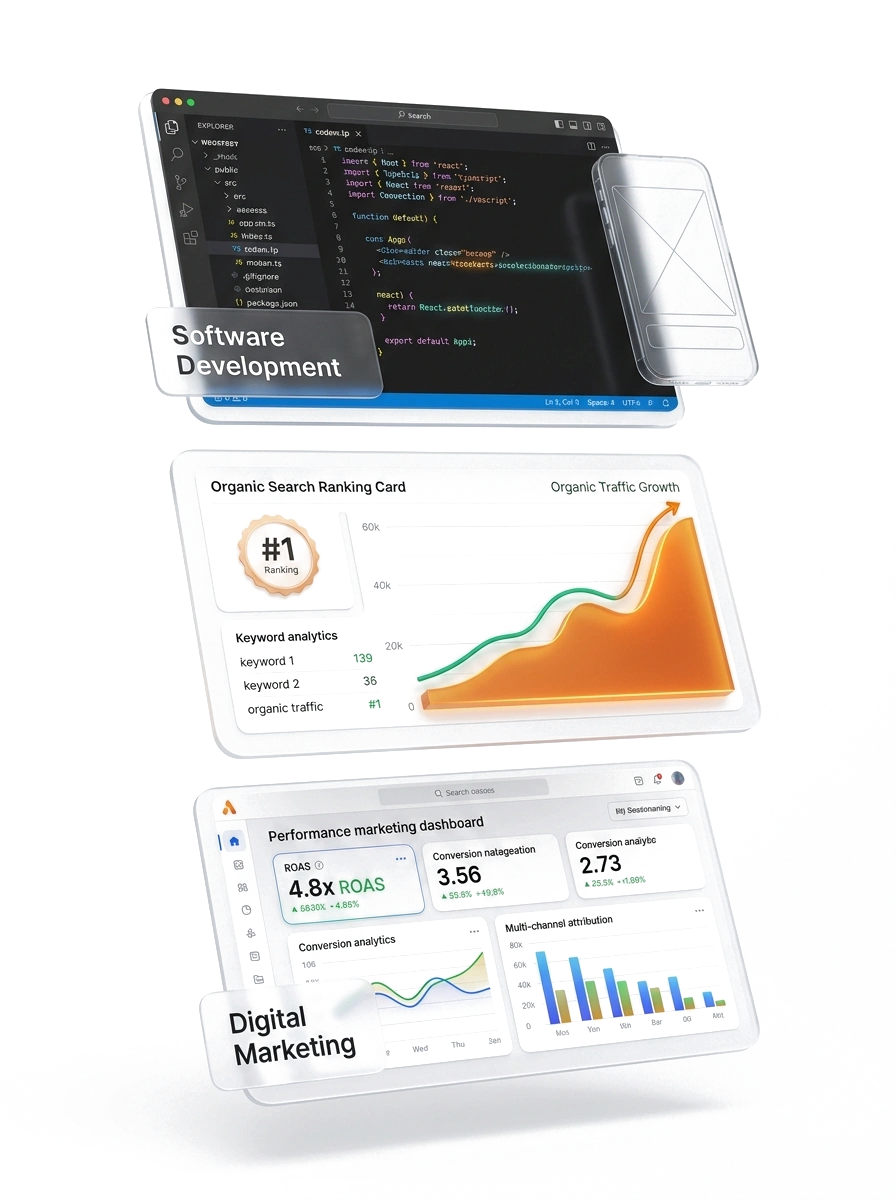
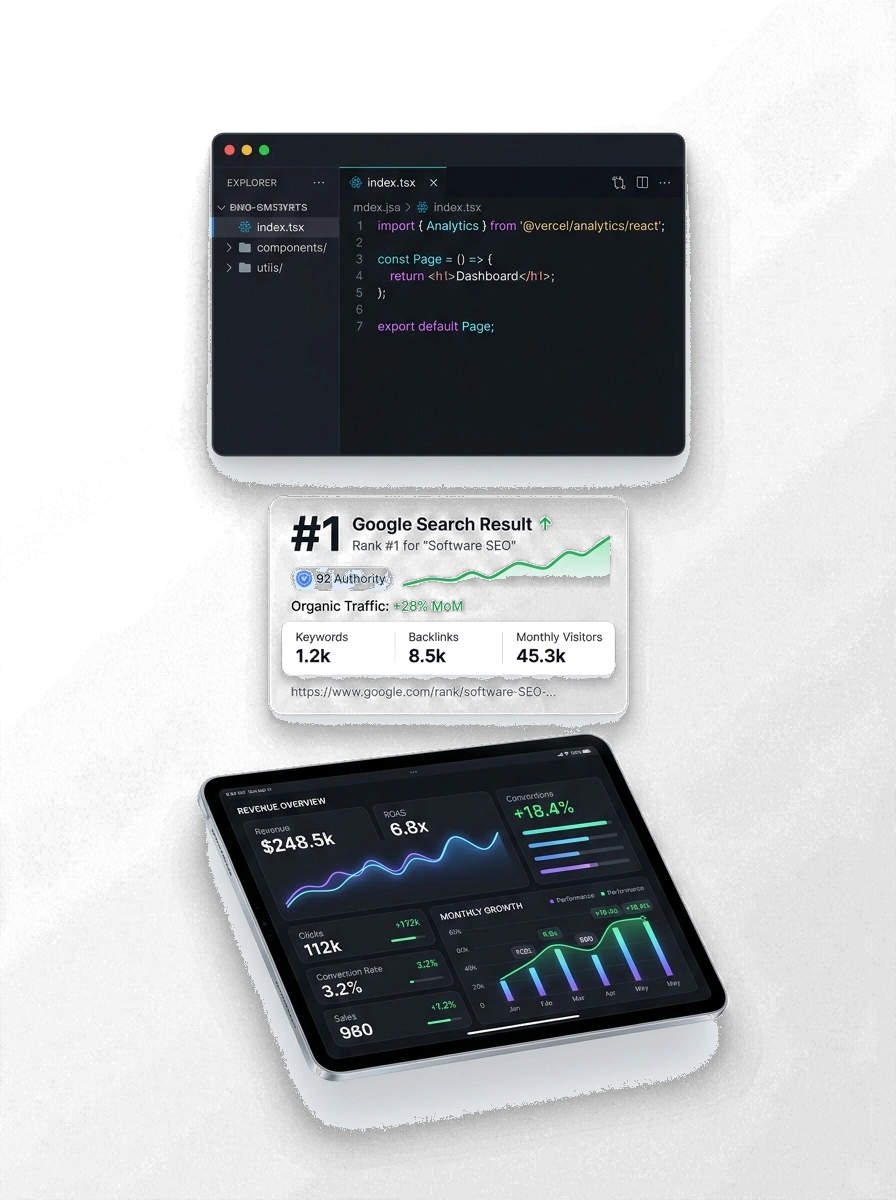
feat(services): redesign capabilities into 5 pillars with sub-service tags and clean floating 3D showcase visual

diff --git a/src/components/portfolite/PortfoliteServicesBento.tsx b/src/components/portfolite/PortfoliteServicesBento.tsx
@@ -4,12 +4,12 @@ import React from 'react';
 import Link from '@/components/Link';
 import {
   Code2,
-  TrendingUp,
-  Share2,
+  Search,
   Target,
   ArrowRight,
-  Monitor,
   Film,
+  Newspaper,
+  CheckCircle2,
 } from 'lucide-react';
 
 interface BentoServiceCard {
@@ -19,7 +19,10 @@ interface BentoServiceCard {
   title: string;
   link: string;
   description: string;
+  tags: string[];
   icon: React.ComponentType<{ className?: string }>;
+  colSpanDesktop: string;
+  colSpanTablet: string;
 }
 
 const SERVICES_DATA: BentoServiceCard[] = [
@@ -28,10 +31,20 @@ const SERVICES_DATA: BentoServiceCard[] = [
     index: '01',
     category: 'Software Engineering',
     title: 'Software Development',
-    link: '/services/crm-software',
+    link: '/services/development',
     description:
-      'We engineer bespoke business software, modular backend architectures, custom CRMs, and automated workflow matrices built for dependable enterprise scale.',
+      'We engineer bespoke enterprise software, modular backend architectures, scalable ERP systems, custom CRMs, and automated workflow matrices built for dependable scale.',
+    tags: [
+      'CRM',
+      'ERP',
+      'Mobile App',
+      'E-Commerce Website',
+      'Corporate Website',
+      'Custom Software',
+    ],
     icon: Code2,
+    colSpanDesktop: 'lg:col-span-6',
+    colSpanTablet: 'md:col-span-1',
   },
   {
     id: 'digital-marketing',
@@ -40,48 +53,84 @@ const SERVICES_DATA: BentoServiceCard[] = [
     title: 'Digital Marketing',
     link: '/services/digital-marketing',
     description:
-      'Full-funnel acquisition campaigns, multi-touch attribution telemetry, and precision conversion optimization engineered to accelerate business revenue.',
+      'Full-funnel acquisition campaigns, multi-touch attribution telemetry, and precision conversion optimization engineered to accelerate verified business revenue.',
+    tags: [
+      'Digital Marketing',
+      'Social Media Marketing',
+      'Content Marketing',
+      'Performance Marketing',
+      'Branding',
+      'Google Ads',
+      'Meta Ads',
+      'PR Management',
+    ],
     icon: Target,
+    colSpanDesktop: 'lg:col-span-6',
+    colSpanTablet: 'md:col-span-1',
   },
   {
-    id: 'search-engine-optimization',
+    id: 'seo-geo-aeo',
     index: '03',
-    category: 'Search Authority',
-    title: 'SEO (Search Engine Optimization)',
+    category: 'Search & AI Engines',
+    title: 'SEO, GEO & AEO Services',
     link: '/seo-lead-generation',
     description:
-      'Technical crawl architecture, high-intent keyword mapping, structured Schema.org entity graphs, and 100% Core Web Vitals for dominant search rankings.',
-    icon: TrendingUp,
+      'Technical crawl architecture, high-intent keyword mapping, structured Schema.org entity graphs, generative & answer engine dominance, and local discovery.',
+    tags: [
+      'SEO',
+      'GEO Services',
+      'AEO Services',
+      'On-Page Services',
+      'Off-Page Services',
+      'Local SEO (GMB)',
+      'Google Marketplace Listing',
+    ],
+    icon: Search,
+    colSpanDesktop: 'lg:col-span-4',
+    colSpanTablet: 'md:col-span-1',
   },
   {
-    id: 'corporate-film-making',
+    id: 'film-production',
     index: '04',
     category: 'Production Studio',
-    title: 'Corporate Film Making',
-    link: '/contact',
+    title: 'Film Production & Media',
+    link: '/services/film-making',
     description:
-      'Broadcast-quality corporate films, industrial plant documentaries, executive interviews, and cinematic commercial video produced by our Delhi NCR crew.',
+      'Broadcast-quality corporate films, digital & TV commercials, executive interview pods, high-end studio photography, and next-gen AI video creation.',
+    tags: [
+      'Film Production',
+      'Digital Ads',
+      'TV Ads',
+      'Corporate Film Production',
+      'Podcasts',
+      'Personal Interviews',
+      'AI Video Creation',
+      'Product Photoshoot',
+      'Model Shoot',
+    ],
     icon: Film,
+    colSpanDesktop: 'lg:col-span-4',
+    colSpanTablet: 'md:col-span-1',
   },
   {
-    id: 'social-media-marketing',
+    id: 'corporate-world-news',
     index: '05',
-    category: 'Brand Amplification',
-    title: 'Social Media Marketing',
-    link: '/services/digital-marketing',
+    category: 'Editorial & Market Intelligence',
+    title: 'Corporate World News',
+    link: '/blogs',
     description:
-      'Strategic multi-channel social campaigns, executive thought leadership, and creative content pods that build verified enterprise authority and engagement.',
-    icon: Share2,
-  },
-  {
-    id: 'web-development',
-    index: '06',
-    category: 'Platform Engineering',
-    title: 'Web Development',
-    link: '/services/development',
-    description:
-      'High-performance modular Next.js platforms, accessible design systems, and sub-second page delivery engineered to capture your brand and convert users.',
-    icon: Monitor,
+      'Authoritative corporate journalism, executive interview broadcasts, strategic press releases, breaking business updates, and rigorous market research.',
+    tags: [
+      'Corporate World News',
+      'Interview & Press Releases',
+      'Corporate News',
+      'Market Update',
+      'Industries Analysis',
+      'Market Research',
+    ],
+    icon: Newspaper,
+    colSpanDesktop: 'lg:col-span-4',
+    colSpanTablet: 'md:col-span-2',
   },
 ];
 
@@ -93,7 +142,7 @@ export default function PortfoliteServicesBento() {
     >
       <div className="max-w-7xl mx-auto px-4 sm:px-6 lg:px-8 relative z-10">
         {/* Left-Aligned Editorial Section Header */}
-        <div className="flex flex-col lg:flex-row lg:items-end justify-between mb-10 sm:mb-20 gap-4 sm:gap-6 text-left">
+        <div className="flex flex-col lg:flex-row lg:items-end justify-between mb-10 sm:mb-16 gap-4 sm:gap-6 text-left">
           <div className="max-w-2xl">
             <h2 className="text-2xl sm:text-4xl lg:text-6xl font-bold tracking-tight text-black leading-[1.12] sm:leading-[1.08] font-display">
               Integrated digital services,{' '}
@@ -105,53 +154,71 @@ export default function PortfoliteServicesBento() {
           </div>
 
           <p className="text-zinc-600 max-w-md text-sm sm:text-base font-light leading-relaxed">
-            From technical software development and search authority to full-funnel digital marketing and corporate cinema — explore our six core operational disciplines.
+            From technical software development and search authority to full-funnel digital marketing, corporate cinema, and market intelligence — explore our core operational disciplines.
           </p>
         </div>
 
-        {/* ── 3-Column × 2-Row Grid: Clean, High-Polish Bento Cards ── */}
-        <div className="grid grid-cols-1 md:grid-cols-2 lg:grid-cols-3 gap-4 sm:gap-7">
+        {/* ── 12-Column Bento Grid: Row 1 (2 cards: 6+6), Row 2 (3 cards: 4+4+4) ── */}
+        <div className="grid grid-cols-1 md:grid-cols-2 lg:grid-cols-12 gap-5 sm:gap-7">
           {SERVICES_DATA.map((service) => {
             const Icon = service.icon;
             return (
               <Link
                 key={service.id}
                 href={service.link}
-                className="group relative rounded-2xl sm:rounded-[28px] bg-white/80 hover:bg-white active:scale-[0.985] backdrop-blur-md p-5 sm:p-7 lg:p-9 flex flex-col justify-between border border-zinc-200/80 hover:border-black/30 shadow-[0_2px_8px_rgba(0,0,0,0.03)] hover:shadow-[0_16px_36px_rgba(0,0,0,0.08)] hover:-translate-y-1.5 transition-[transform,box-shadow,border-color,background-color] duration-300 ease-out min-h-[300px] sm:min-h-[360px]"
+                className={`group relative rounded-2xl sm:rounded-[28px] bg-white hover:bg-white active:scale-[0.985] p-6 sm:p-8 lg:p-9 flex flex-col justify-between border border-zinc-200/80 hover:border-black/30 shadow-[0_2px_8px_rgba(0,0,0,0.03)] hover:shadow-[0_16px_36px_rgba(0,0,0,0.08)] hover:-translate-y-1.5 transition-[transform,box-shadow,border-color,background-color] duration-300 ease-out min-h-[340px] sm:min-h-[400px] ${service.colSpanTablet} ${service.colSpanDesktop}`}
               >
                 {/* Card Top: Index, Category & Icon */}
                 <div>
-                  <div className="flex items-center justify-between mb-4 sm:mb-7">
+                  <div className="flex items-center justify-between mb-5 sm:mb-6">
                     <div className="flex items-center gap-2">
-                      <span className="text-sm font-mono font-bold text-[#b45309]" style={{ fontVariantNumeric: 'tabular-nums' }}>
+                      <span
+                        className="text-sm font-mono font-bold text-[#b45309]"
+                        style={{ fontVariantNumeric: 'tabular-nums' }}
+                      >
                         {service.index}
                       </span>
-                      <span className="text-zinc-400" aria-hidden="true">/</span>
+                      <span className="text-zinc-400" aria-hidden="true">
+                        /
+                      </span>
                       <span className="text-xs font-mono font-semibold text-zinc-700 uppercase tracking-wider">
                         {service.category}
                       </span>
                     </div>
 
-                    <div className="w-10 h-10 sm:w-11 sm:h-11 rounded-xl sm:rounded-2xl bg-white/90 backdrop-blur-md border border-zinc-200/80 flex items-center justify-center text-zinc-900 group-hover:bg-black group-hover:text-white group-hover:border-black transition-[background-color,color,border-color] duration-200 shadow-sm">
+                    <div className="w-10 h-10 sm:w-11 sm:h-11 rounded-xl sm:rounded-2xl bg-zinc-50 border border-zinc-200/80 flex items-center justify-center text-zinc-900 group-hover:bg-black group-hover:text-white group-hover:border-black transition-[background-color,color,border-color] duration-200 shadow-sm">
                       <Icon className="w-4 h-4" />
                     </div>
                   </div>
 
                   {/* Service Title */}
-                  <h3 className="text-xl sm:text-[25px] font-bold text-black tracking-tight leading-snug font-display text-balance">
+                  <h3 className="text-xl sm:text-2xl lg:text-[26px] font-bold text-black tracking-tight leading-snug font-display text-balance">
                     {service.title}
                   </h3>
 
                   {/* Clean, Punchy Description */}
-                  <p className="mt-3 sm:mt-4 text-zinc-600 text-sm sm:text-[15px] font-normal leading-relaxed text-pretty">
+                  <p className="mt-3 text-zinc-600 text-sm sm:text-[15px] font-normal leading-relaxed text-pretty">
                     {service.description}
                   </p>
+
+                  {/* Subservices / Capability Pills */}
+                  <div className="mt-5 pt-4 border-t border-zinc-100 flex flex-wrap gap-1.5 sm:gap-2">
+                    {service.tags.map((tag) => (
+                      <span
+                        key={tag}
+                        className="inline-flex items-center px-2.5 py-1 rounded-md text-[11px] sm:text-xs font-medium bg-zinc-100/80 text-zinc-700 border border-zinc-200/60 group-hover:bg-amber-50 group-hover:text-amber-900 group-hover:border-amber-200/70 transition-colors duration-200"
+                      >
+                        {tag}
+                      </span>
+                    ))}
+                  </div>
                 </div>
 
                 {/* Card Footer: Simple Minimal Action */}
-                <div className="pt-4 sm:pt-6 mt-6 sm:mt-8 border-t border-zinc-100 flex items-center justify-between min-h-[44px]">
-                  <span className="text-[11px] sm:text-xs font-mono text-zinc-600 uppercase tracking-wider font-medium">
-                    Core Capability
+                <div className="pt-4 sm:pt-6 mt-6 border-t border-zinc-100 flex items-center justify-between min-h-[44px]">
+                  <span className="text-[11px] sm:text-xs font-mono text-zinc-500 uppercase tracking-wider font-medium flex items-center gap-1.5">
+                    <CheckCircle2 className="w-3.5 h-3.5 text-solar" />
+                    <span>Core Discipline</span>
                   </span>
 
                   <span className="inline-flex items-center gap-1.5 text-xs sm:text-sm font-semibold text-black group-hover:text-solar transition-colors duration-200">

diff --git a/src/components/home/DigitalGrowthShowcaseSection.tsx b/src/components/home/DigitalGrowthShowcaseSection.tsx
@@ -127,7 +127,7 @@ export default function DigitalGrowthShowcaseSection() {
                 alt="ARKA Technovation - Software Development, SEO Authority & Digital Marketing"
                 width={896}
                 height={1200}
-                className="w-auto h-full max-h-[420px] sm:max-h-[520px] lg:max-h-none object-contain select-none pointer-events-none drop-shadow-[0_20px_45px_rgba(0,0,0,0.06)] [mix-blend-mode:multiply]"
+                className="w-auto h-full max-h-[420px] sm:max-h-[520px] lg:max-h-none object-contain select-none pointer-events-none drop-shadow-[0_20px_45px_rgba(0,0,0,0.06)]"
                 priority
               />
             </motion.div>

diff --git a/src/app/ui-ux/page.tsx b/src/app/ui-ux/page.tsx
@@ -20,3 +20,4 @@ export const metadata: Metadata = {
 export default function Page() {
   return <UxInteractivesPage />;
 }
+
